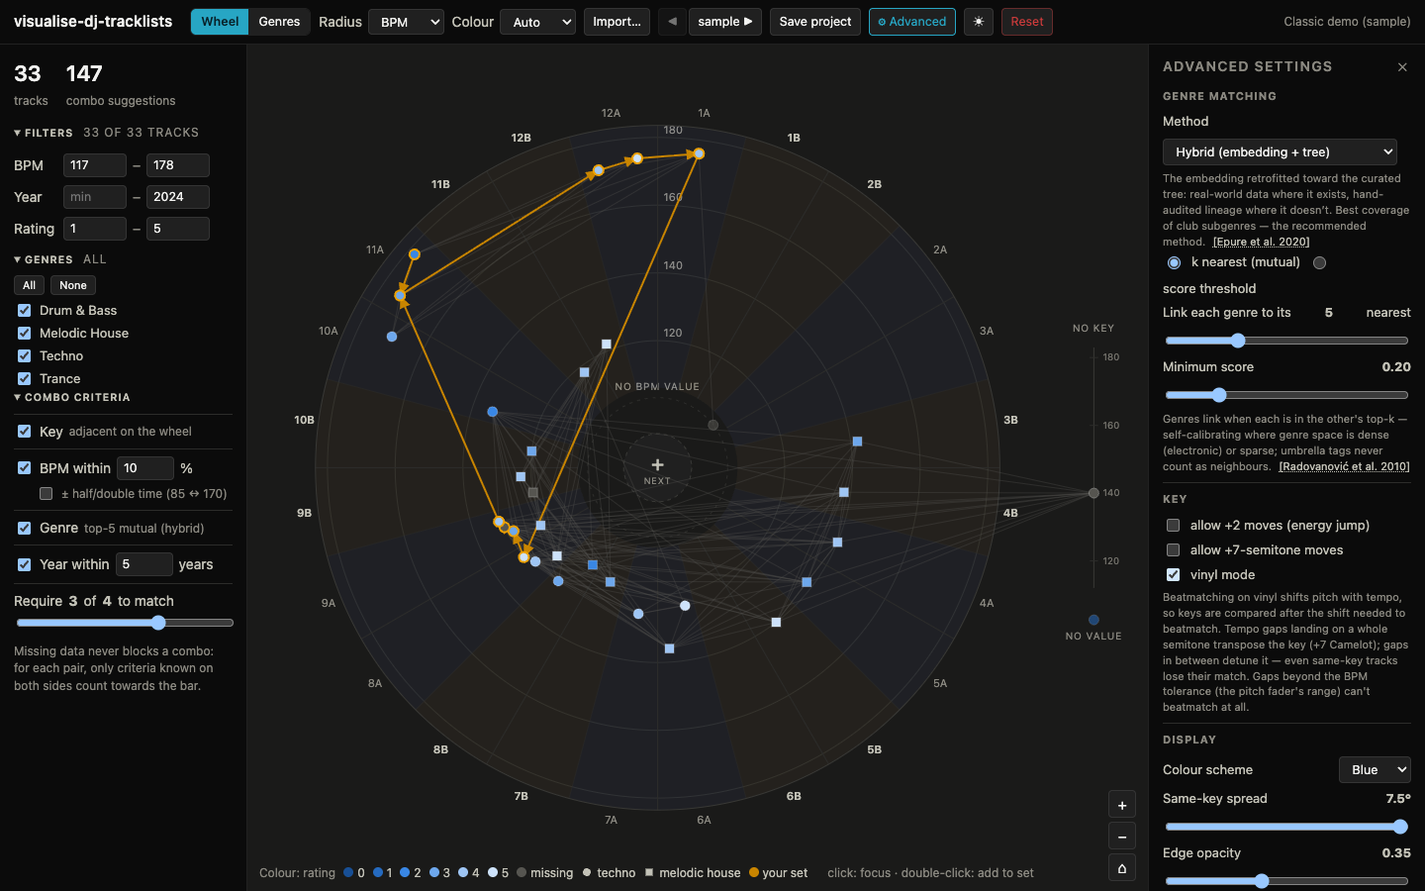
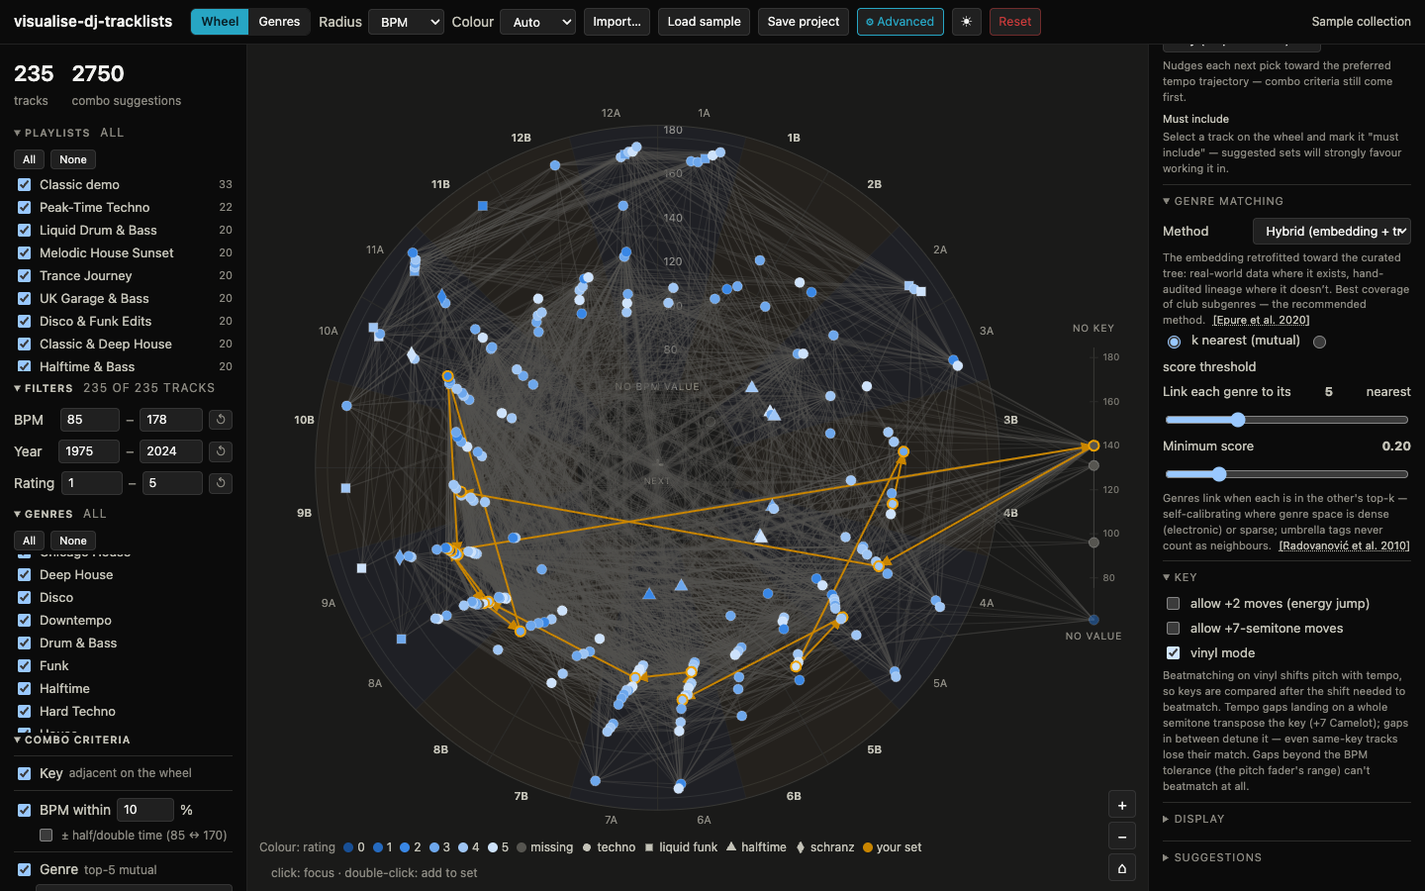
v6 WS8b: design-v6.md, README rewrite, refreshed screenshots
design-v6.md records all sixteen resolutions, the two deliberate v5
reversals (radial-follows-filter; legend omit-not-dim), the approval
caveat (playlist-scoped filter defaults, reset on toggle), the
progression/must-include/forced-next algorithms with their limits, and
the non-goals. README updated for the sample collection, playlist-scoped
filters with ↺, the still-standing static angles vs. the gliding radial
axis, Set order, the force hub, hybrid default, ⓘ status and named
exports; all five embedded screenshots regenerated from the new E2E run.

diff --git a/README.md b/README.md
@@ -12,15 +12,17 @@ Your library never leaves your machine — there is no backend, no account, no u
 ## What it does
 
 - **Import** a Rekordbox XML collection export, a **Rekordbox playlist TXT export**
-  (the UTF-16 tab-separated table — it becomes both library and set, in playlist
-  order), a CSV, tagged audio files (ID3/Vorbis/MP4, read in the browser), or an
-  **M3U8 playlist** — M3U8s become your set, matched against the library, and entries
-  that aren't in the library yet pick up their metadata when you import the collection
-  XML later. The **Load sample** button cycles themed sample libraries like the
-  suggestion arrows: ▶ loads a fresh pack (with its demo set), ◀ steps back.
-- **Work per playlist**: a collection XML that carries playlists starts with an
-  **empty wheel** and a Playlists panel on the left — toggle the playlists you want
-  (plus a "Not in a playlist" bucket for the rest) instead of drowning in 2000 nodes.
+  (the UTF-16 tab-separated table — it becomes the library, a ready-checked playlist
+  named after the file, _and_ your set in playlist order), a CSV, tagged audio files
+  (ID3/Vorbis/MP4, read in the browser), or an **M3U8 playlist** — M3U8s become your
+  set, matched against the library, and entries that aren't in the library yet pick
+  up their metadata when you import the collection XML later. The **Load sample**
+  button loads one **Sample collection**: ten themed fictional crates plus the
+  classic demo, each as a playlist, behaving exactly like an imported collection.
+- **Work per playlist**: any collection with playlists (XML or the sample) starts
+  with an **empty wheel** and a Playlists panel on the left — toggle the playlists
+  you want (plus a "Not in a playlist" bucket for the rest) instead of drowning in
+  2000 nodes.
 - **See the web**: key as angle on a 24-slot Camelot wheel (every harmonically compatible
   key angularly adjacent, minor/major sectors tinted), switchable radius (BPM / rating /
   year), node colour on its own axis. Tracks without a key sit in a labelled gutter at
@@ -28,17 +30,23 @@ Your library never leaves your machine — there is no backend, no account, no u
   structure magnifies. When your library spans **clearly different genre families**,
   each family gets its own node shape (circle, square, triangle, …) — clustered in
   whichever similarity space you selected, capped by a "max genre classes" setting.
-- **A static background**: the axes, rings and genre-class shapes are properties of
-  your _library_, not of the current filters — filtering and playlist toggling only
-  add or remove nodes, never rescale the frame, and the legend greys out classes
-  instead of dropping them. Rating and year rings only sit on whole values.
+- **Nodes that hold still**: every track's angle is a property of your _library_,
+  not of the current filters — filtering and playlist toggling only make nodes
+  appear or disappear, leaving gaps in the same-key fans, so nothing ever shuffles
+  around while you narrow down. The one deliberate exception is the **radial axis**:
+  tighten the min/max of the value shown as radius and the rings, ticks and radii
+  glide to the new range (and back, via each filter's ↺ reset). The legend lists
+  only the genre classes you can currently see, and disappears when the symbols
+  make no distinction. Rating and year rings only sit on whole values.
 - **Map the genres**: a second central view (Wheel | Genres switch) lays your library's
   genres out with a force simulation — screen distance approximates the distance
   measure. Toggleable per-method edge overlays show where the six similarity methods
   agree and disagree; hovering a link lists every method's score for that pair, and a
   "show nearby genres" toggle ghosts in related genres you don't own yet.
-- **Filter**: BPM / year / rating ranges (pre-filled with your library's actual extremes)
-  plus an alphabetical genre checklist decide what participates in the graph at all.
+- **Filter**: BPM / year / rating ranges plus an alphabetical genre checklist decide
+  what participates in the graph at all. Ranges pre-fill with the whole numbers just
+  outside the **selected playlists'** actual extremes, reset to them with a ↺ per
+  range (and whenever you toggle playlists), and a min can never cross its max.
 - **Tune the criteria**: key / BPM / genre / year each toggleable and ranged; an edge
   appears when at least _N_ of the enabled criteria match. Missing metadata never blocks
   a combo. **Half/double-time** BPM matching links 85 ↔ 170 worlds; the **+2** and
@@ -47,26 +55,36 @@ Your library never leaves your machine — there is no backend, no account, no u
   compared _after_ that shift: same-key tracks at different tempos detune apart, and
   clean-semitone gaps transpose into new matches. Toggling it visibly rewires the graph.
 - **Match genres that aren't spelled the same**: six selectable similarity methods
-  (see below) with sourced explainers in the advanced menu. The criterion defaults to
-  **mutual top-k** matching — each genre links to its k nearest genres in _your_
-  library when the closeness is mutual — which self-calibrates across dense
+  (see below) — the dropdown sits right in the combo panel, sourced explainers and
+  parameters in the advanced menu. The criterion defaults to the **hybrid** method
+  with **mutual top-k** matching — each genre links to its k nearest genres in
+  _your_ library when the closeness is mutual — which self-calibrates across dense
   (electronic) and sparse genre regions; a classic score threshold remains available.
   Umbrella tags ("Electronic", "Dance") never drive a match, and multi-genre fields
   ("House / Techno") match through their best component.
-- **Weave a set**: click to focus, double-click to append (the same track can appear
-  twice — just not back-to-back), or press the wheel's centre **＋ next** button to
-  slot in the best next track (it inserts _between_ tracks when your selection sits
-  mid-set). **Suggest a set** generates a full walk from a **random opener** each time;
-  the ◀ / ▶ arrows step back to earlier suggestions or generate fresh ones. **Pin** the
-  set's first and/or last track (📌 on the row) to lock the opener and closer across
-  regenerations — with both pinned, the walk grows from both ends inward. An
-  **adventurousness** setting controls how much dissonance the generator embraces.
+- **Weave a set**: click to focus (a card shows the selection's details), double-click
+  to append (the same track can appear twice — just not back-to-back), or press the
+  wheel's centre **＋ next** button to slot in the best next track (it inserts
+  _between_ tracks when your selection sits mid-set). When no track matches your
+  criteria from there, the button pulses into a warning-coloured **force** state —
+  clicking it knowingly breaks the rules with the closest non-matching pick.
+  **Suggest a set** generates a full walk from a **random opener** each time; the
+  ◀ / ▶ arrows step back to earlier suggestions or generate fresh ones.
+- **Shape the generated order**: the advanced menu's **Set order** section picks the
+  opening and closing track (the same pins as 📌 on the set's first/last rows — with
+  both set, the walk grows from both ends inward), keeps a **must-include** list
+  (mark any selected track; the generator strongly favours working it in), and sets
+  a **BPM progression** — steady, rising, falling, or a sawtooth that builds and
+  drops in cycles. An **adventurousness** setting controls how much dissonance the
+  generator embraces.
 - **Make it yours**: the advanced settings live in the right panel (swapping with
-  "Your set"), so the wheel reacts live while you tune. A ☀/☾ switch flips between
-  the dark and light theme; fresh visitors follow the system preference.
-- **Take it with you**: export the set as M3U8 (Rekordbox re-imports it) or CSV; save the
-  whole project as JSON. Everything autosaves to the browser; a Reset button (with
-  confirmation) wipes the slate.
+  "Your set") as collapsible sections, so the wheel reacts live while you tune
+  without a wall of controls. A ☀/☾ switch flips between the dark and light theme;
+  fresh visitors follow the system preference. The top bar stays lean: the imported
+  collection's name plus an ⓘ whose tooltip holds the import details.
+- **Take it with you**: export the set as M3U8 (Rekordbox re-imports it) or CSV; save
+  the whole project as JSON — every export asks for a filename first. Everything
+  autosaves to the browser; a Reset button (with confirmation) wipes the slate.
 
 ![A Rekordbox collection with the playlists panel](docs/screenshots/playlists.png)
 
@@ -77,19 +95,20 @@ Your library never leaves your machine — there is no backend, no account, no u
 ## Genre similarity
 
 "Tech House" and "Techno" are different strings but not unrelated music. The genre
-criterion supports six methods (advanced menu → Genre matching), implementing the
+criterion supports six methods (picked in the combo panel; parameters and sourced
+explainers in advanced menu → Genre matching), implementing the
 recommendations of a literature review on genre distance measures
 ([docs/designs/design-v4.md](docs/designs/design-v4.md) has the design; the full report
 lives in [docs/research/](docs/research/)):
 
-| Method              | How it works                                                                                  | Data                                                              | Grounding                            |
-| ------------------- | --------------------------------------------------------------------------------------------- | ----------------------------------------------------------------- | ------------------------------------ |
-| Exact               | normalized labels must be identical (aliases like DnB → Drum & Bass still unify)              | none                                                              | Schreiber 2015 (tag normalization)   |
-| Lexical _(default)_ | token-set Jaccard after normalization ("melodic house" ~ "house")                             | none                                                              | —                                    |
-| Graph               | decay^(shortest path) over a curated genre-relation graph                                     | [src/data/genre-graph.json](src/data/genre-graph.json) — editable | Rada et al. 1989                     |
-| Taxonomy            | Lin similarity over a rooted genre DAG with intrinsic information content                     | [src/data/genre-tree.json](src/data/genre-tree.json) — editable   | Lin 1998; Seco et al. 2004           |
-| Embedding           | mutual-proximity-corrected similarity between tag co-occurrence embeddings                    | [src/data/genre-embedding.json](src/data/genre-embedding.json)    | Levy & Goldberg 2014; Schnitzer 2012 |
-| Hybrid              | the embedding retrofitted toward the curated tree — data plus lineage, best subgenre coverage | same pack, `hybrid` section                                       | Epure et al. 2020 (retrofitting)     |
+| Method             | How it works                                                                                  | Data                                                              | Grounding                            |
+| ------------------ | --------------------------------------------------------------------------------------------- | ----------------------------------------------------------------- | ------------------------------------ |
+| Exact              | normalized labels must be identical (aliases like DnB → Drum & Bass still unify)              | none                                                              | Schreiber 2015 (tag normalization)   |
+| Lexical            | token-set Jaccard after normalization ("melodic house" ~ "house")                             | none                                                              | —                                    |
+| Graph              | decay^(shortest path) over a curated genre-relation graph                                     | [src/data/genre-graph.json](src/data/genre-graph.json) — editable | Rada et al. 1989                     |
+| Taxonomy           | Lin similarity over a rooted genre DAG with intrinsic information content                     | [src/data/genre-tree.json](src/data/genre-tree.json) — editable   | Lin 1998; Seco et al. 2004           |
+| Embedding          | mutual-proximity-corrected similarity between tag co-occurrence embeddings                    | [src/data/genre-embedding.json](src/data/genre-embedding.json)    | Levy & Goldberg 2014; Schnitzer 2012 |
+| Hybrid _(default)_ | the embedding retrofitted toward the curated tree — data plus lineage, best subgenre coverage | same pack, `hybrid` section                                       | Epure et al. 2020 (retrofitting)     |
 
 The bundled pack is built from the
 [MediaEval AcousticBrainz Genre Dataset](https://mtg.github.io/acousticbrainz-genre-dataset/)

diff --git a/docs/designs/design-v6.md b/docs/designs/design-v6.md
@@ -1,0 +1,160 @@
+# Design v6 — Sixteen issues after using v5
+
+Sixteen issues from real sessions with v5 (docs/ISSUES.md), covering filter
+ergonomics, wheel-geometry corrections, a new set-order feature, the sample-library
+consolidation, and top-bar decluttering. This document records the design decided
+with Michiel before implementation (2026-07-15). Two items deliberately reverse
+documented v5 decisions; both reversals are called out below.
+
+## The issues and their resolutions
+
+| #   | Issue                                              | Resolution                                                                                                                                            |
+| --- | -------------------------------------------------- | ----------------------------------------------------------------------------------------------------------------------------------------------------- |
+| 1   | Filter min can exceed max                          | `clampRange` pulls the edited side to the other bound; the store gets the clamped range on every keystroke, the boxes are rewritten only on blur/enter |
+| 2   | Radial limits should rescale the wheel             | The radial scale's domain = the active filter for the radial metric, falling back to the playlist selection's extent — **partial reversal of v5 §A** (§A) |
+| 3   | Per-range reset buttons                            | A ↺ per range restores `[floor(min), ceil(max)]` of the **playlist-scoped** extremes (approval caveat, §A)                                            |
+| 4   | Legend limited to visible symbols                  | Classes without visible tracks are **omitted** (not dimmed); the whole legend hides at ≤ 1 distinct visible symbol — **reversal of v5 remark 3** (§B)  |
+| 5   | Set-order preferences submenu                      | New "Set order" section: opener/closer pickers promoted from the 📌 pins, must-include marks, BPM progression curves (§C)                              |
+| 6   | One sample collection instead of packs             | All 11 packs load together as playlists in a single "Sample collection", behaving exactly like an XML import; demo sets and ◀/▶ cycling dropped (§D)   |
+| 7   | Import stats crowd the top bar                     | Status shows the collection name + an ⓘ icon; the full report appears in a hover/focus tooltip (§E)                                                    |
+| 8   | Empty hint centred on the screen                   | The "Nothing to show yet" card is a `foreignObject` anchored on the wheel's true centre (CX, CY) inside the viewBox                                    |
+| 9   | Filters shuffle node angles                        | Slot fan-out (and gutter stacking) computed over the **full library**; filtering leaves gaps in the fans, nothing moves (§A)                           |
+| 10  | Genre method: default hybrid, dropdown in panel    | `DEFAULT_CRITERIA.genre.method = 'hybrid'`; the method select joins the combo panel's Genre row; mode/k/threshold stay advanced-only (§F)              |
+| 11  | Next button should signal + allow forcing          | The hub turns warning-coloured with a brief pulse when the anchor's neighbourhood is exhausted; clicking then forces the best non-matching track (§C)  |
+| 12  | Disconnected genre-map components drift out        | `forceCenter` replaced with gentle `forceX`/`forceY` gravity (0.05); ghost neighbours repel at 0.6× charge (§G)                                        |
+| 13  | 'Genres' clips in a crowded top row                | #7 shrinks the status; header wraps, view switch is nowrap/no-shrink, name ellipsises; bonus: the wheel legend is right-bounded so it can't cover panels |
+| 14  | TXT import should use the collection view          | The TXT yields a playlist named after the file, **toggled on**, while still loading the file order as the set (decided with Michiel, §E)               |
+| 15  | Name exports before saving                         | Project/M3U8/CSV exports prompt for a filename (prefilled with the sensible default); cancel aborts; the extension is appended when missing            |
+| 16  | Advanced menu shows everything at once             | Sections become native `<details>` groups; "Set order" starts open, the tuning sections folded                                                         |
+
+Decisions taken with the user: pins are *promoted* into the Set order section (one
+mechanism, two entry points); must-include is flagged on the selected track; the
+progression curves shipped are any/steady/rising/falling/sawtooth; the sample
+collection drops the per-pack demo sets; the TXT playlist starts toggled on with the
+set kept. Approval caveat: v5's static background is **not** wholesale undone — only
+the radial axis rescales, elegantly (tweened), and filter defaults are scoped to the
+selected playlists, resetting when the playlist toggles change.
+
+## §A Wheel geometry: what is static, what follows the filter
+
+v5 froze the whole frame to the full library. v6 splits that rule in two:
+
+- **Angles became more static.** Slot fan-out and gutter stacking run over the
+  *full library*, and only visible placements render. A track's angle is now a pure
+  function of (library, spread setting) — filters and playlist toggles make nodes
+  appear or disappear, leaving gaps in the fans. (Previously the fan was computed
+  from the visible set, so every filter keystroke reshuffled the angular indices —
+  the "jitter" of issue 9.) Per-slot ordering sorts by raw radial value, then id,
+  so it is independent of the radial domain too.
+- **The radial axis follows its filter.** `radialDomain(filterRange, extent)` in
+  `src/core/scales.ts`: the active min/max for the radial metric wins; the fallback
+  is the **playlist-scoped** extent (`playlistScopedLibrary` — the library filtered
+  by the playlist selection only). Degenerate domains widen by ±1. The domain is
+  `.nice()`d once up front, then the two endpoints ride a 350 ms `Tween`
+  (cubicOut): rings, tick positions and node radii glide through the interpolated
+  scale instead of jumping; tick *values* come from the settled target so labels
+  never churn mid-animation. The scale is clamped, so mid-tween values (and placed
+  but hidden tracks) can never overshoot the band. Colour domain, genre classes,
+  symbols and sector geometry stay library-anchored as in v5.
+
+Filter plumbing (issues 1/3 + caveat): `clampRange` guarantees min ≤ max at the
+store level on every keystroke while only rewriting the input boxes on change, so
+clamping never fights mid-typing. Range defaults seed from
+`wholeExtent(playlist-scoped extents)` = `[floor(min), ceil(max)]`; the per-range ↺
+commits exactly that. **Toggling playlists resets all three ranges** to the new
+selection's whole-number extremes — deliberate (an explicit request): a stale range
+from another playlist would silently hide tracks. Loaded projects still restore
+their saved ranges (the seeding effect never writes to the store on library
+replacement).
+
+## §B Legend: omit, don't dim
+
+v5 kept every genre-class chip and greyed out filtered-away ones. In practice the
+grey chips read as clutter once the fans themselves show gaps (§A), so v6 shows
+only classes with ≥ 1 visible track and hides the legend entirely when the visible
+nodes carry ≤ 1 distinct symbol. Symbol *assignment* still indexes the full-library
+clustering, so a genre keeps its shape while classes come and go.
+
+## §C Set weaving v2: order preferences and the force button
+
+- **Pins are library-scoped now** (behaviour change): the pruning effect clears a
+  pin (or must-include mark) only when its track leaves the *library*, not the set.
+  This is what lets the Set order pickers work before any set exists. The 📌 row
+  buttons and the pickers are two views of the same `pinnedFirst`/`pinnedLast`
+  stores.
+- **Must-include** (`mustInclude` store, session-only like the pins): marked on the
+  **selected-track card** — a new persistent card (bottom-left of the wheel) that
+  finally gives selection a home for details plus the "☆ must include" toggle; the
+  Set order section lists the marks with ✕ removal. In the generator, pending
+  must-include candidates get `MUST_INCLUDE_BONUS = 5`, strictly above the maximum
+  matched-criteria score (4), until placed. **Biased, not guaranteed**: a mark that
+  never neighbours the walk's tip, or a walk that fills up first, skips it — the
+  walk never breaks the combo-edge rule for a mark.
+- **BPM progression** (`settings.bpmProgression`, persisted via the settings
+  merge — old saves backfill to `'any'`): `progressionFit(current, candidate,
+  step, progression) ∈ [0,1]` with `rising = 1/(1+e^(−Δ/2))` (logistic on the
+  signed BPM step), `falling = 1 − rising`, `steady = 1/(1+|Δ|/3)`, and
+  `sawtooth` = rising with every `SAWTOOTH_PERIOD`(=4)th transition a falling
+  breather. Weight 0.8, below the matched-criteria unit weight, so it re-ranks
+  ties and near-ties without overriding harmonic matches. Missing BPMs are neutral
+  (0.5). `'any'` adds **no term at all** — every pre-v6 walk is reproduced exactly
+  (regression-pinned in the tests). The backward-growing arm of a pinned-closer
+  walk sees time reversed (rising ↔ falling); its sawtooth phase is an
+  approximation, since that arm's final play positions aren't known while it grows.
+- **Forced next (issue 11)**: `nextAnchorId`/`nextExhausted` (shared with the view,
+  so hub state and hub action can't drift) detect when the anchor has no unused
+  combo neighbour. The hub then wears `.warning` — walk-bright ring, brief pulse,
+  label "force" — and `suggestNext(..., { force: true })` ranks **all** unused
+  tracks by the same score with the edge gate ignored. Null now only means every
+  track is already in the set.
+
+## §D One sample collection
+
+`SAMPLE_COLLECTION` = all 11 packs (classic demo + 10 themed) flattened into one
+library with a playlist per pack. "Load sample" loads it through `replaceLibrary`
+and from there it *is* an imported collection: empty wheel, playlists panel, toggle
+what you want to work in. Demo sets, the ◀/▶ cycling history and the advanced-menu
+pack picker are gone (decided with Michiel — "Suggest a set" fills the demo-set
+role). Track ids (`${packId}-${i}`) are unchanged, so `isSampleLibrary` and the
+confirm-once behaviour still work.
+
+## §E Top bar and imports
+
+The status is just the collection name plus an ⓘ whose hover/focus tooltip carries
+the full report (total, missing-per-field summary, skipped count, notes). The
+header wraps on narrow windows; the view switch never shrinks or wraps its labels;
+the name ellipsises. A TXT import now passes
+`playlists: [{ name: file-without-extension, trackIds }]` and the new
+`replaceLibrary` option `selectedPlaylists: [name]`, so the playlists panel shows
+the file as a checked playlist while the set still loads in file order. Exports go
+through `promptExportName` (prompt prefilled with the library-derived default;
+`ensureExtension` appends the suffix case-insensitively; cancel aborts).
+
+## §F Genre method defaults
+
+`hybrid` — the recommended method since the v4 evaluation — is now the default,
+and the method select sits in the combo panel's Genre row (parameters stay in the
+advanced menu). Save semantics: projects that stored a method explicitly keep it
+(no forced upgrade, regression-pinned); legacy saves *missing* the field inherit
+`hybrid` via the migration fallback.
+
+## §G Genre map containment
+
+`forceCenter` only re-centres the mean of all nodes, so components with no links
+drifted apart indefinitely under the −260 charge (worst with all method overlays
+off). Replaced by weak `forceX`/`forceY` gravity (`CONTAIN_STRENGTH = 0.05`)
+toward the canvas centre; ghost neighbours repel at −160 (0.6×) so "show nearby
+genres" doesn't blow the map up. Verified visually with the full sample collection:
+all nodes (including fully isolated ones) stay in frame, and connected layouts are
+not visibly compressed.
+
+## Non-goals
+
+- Guaranteed must-include placement (a constrained-walk problem; the bias is
+  documented as such in the UI copy).
+- Progression-aware seam repair for two-armed walks (the seam is still not
+  guaranteed to be a combo edge — v5 §C stands).
+- Persisting pins/must-include marks in the project file (session-only, like the
+  suggestion history).
+- Per-pack sample loading (fold the packs' descriptions into playlist UI later if
+  ever missed).
